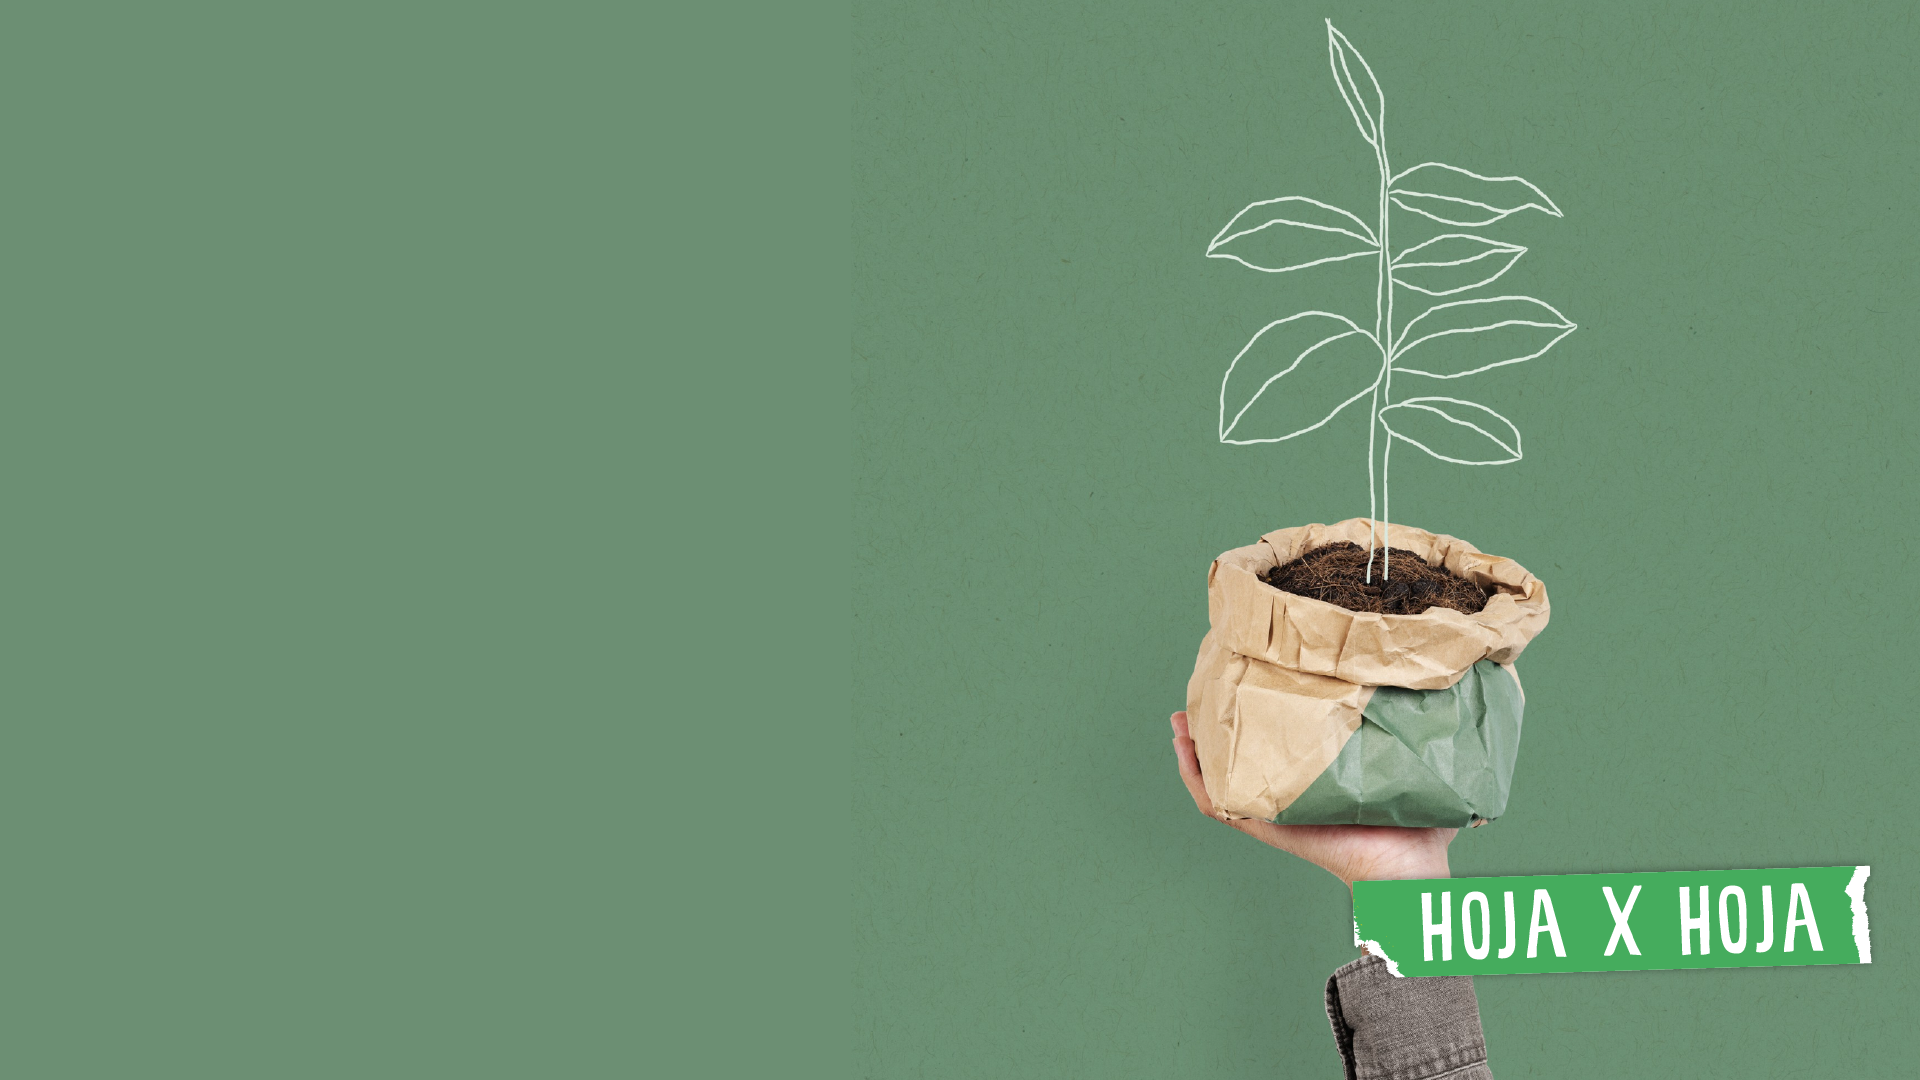
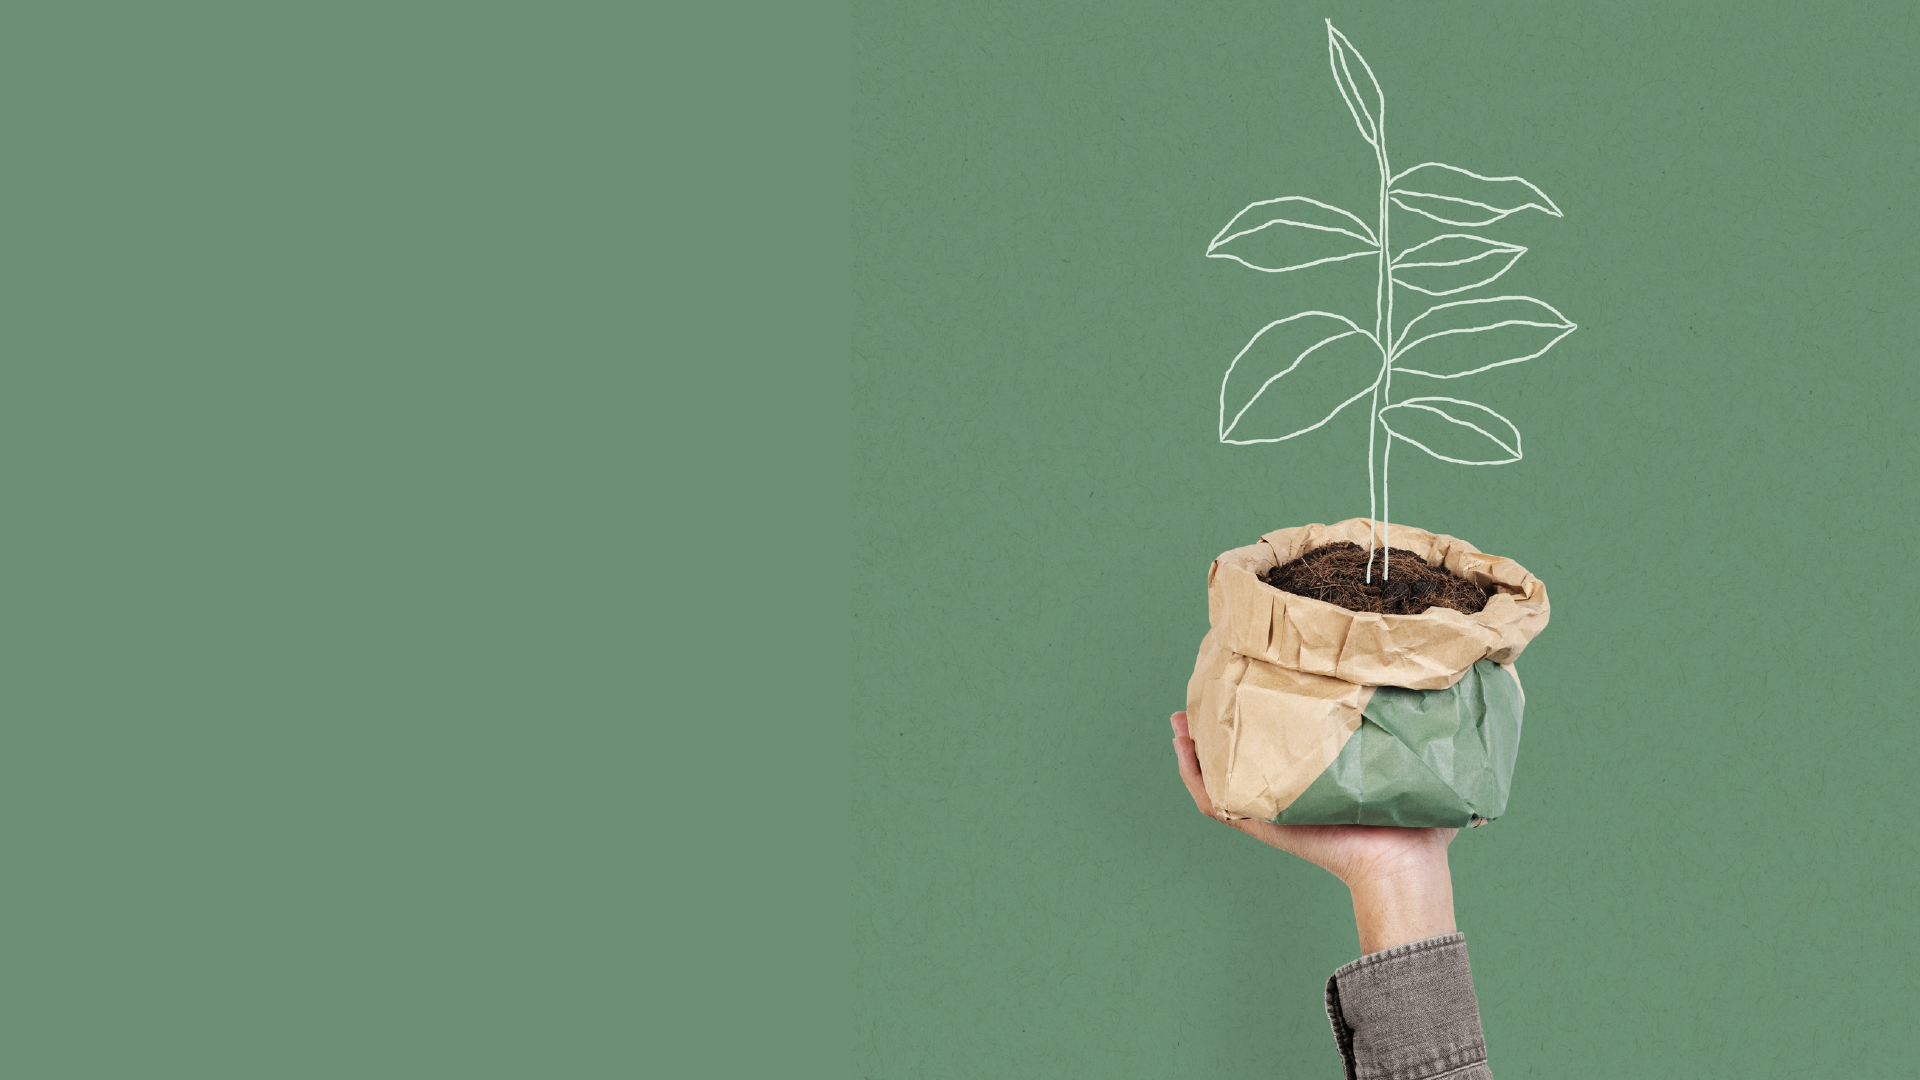
hero responsive campaña

Changed region(s): [[0.6875, 0.7944, 1.0, 0.9167]]

diff --git a/index.html b/index.html
@@ -77,10 +77,11 @@
     <!-- HERO -->
       <section id="hero">
         <div class="hero">
-          <h3 class="animate__animated animate__fadeIn">Campaña</h3>
-          <h1 id="hero-naturaleza" class="animate__animated animate__fadeIn">Hoja x Hoja</h1>
+          <h3 class="animate__animated animate__fadeIn">¡Gran colecta de papeles en desuso!</h3>
+          <!-- <h1 id="hero-naturaleza" class="animate__animated animate__fadeIn">Hoja x Hoja</h1> -->
+           <div class="hero-logo-campain"><img src="./img/hero/logocampain.webp" alt="logo-campaña"></div>
           <p class="animate__animated animate__fadeIn">Citromax lidera la iniciativa conjunta de las empresas de Altercity que comparten valores de sostenibilidad, invitando a todos sus colaboradores a sumarse a la propuesta Hoja x Hoja de la  <span style="color:#004740">&nbsp Fundación Vida Sostenida </span></p>
-          <a href=""><button type="button" class="btn btn-success btn-lg animate__animated animate__pulse">Más info</button></a>
+          <a href="https://www.instagram.com/p/DDh1-XXuKVK/" target="_blank"><button type="button" class="btn btn-success btn-lg animate__animated animate__pulse">Más info</button></a>
         </div>
       </section>
     <!-- END HERO -->

diff --git a/css/secciones/hero.css b/css/secciones/hero.css
@@ -3,7 +3,7 @@
     background-image: url(../../img/hero/hero-hojaxhoja.webp);
     background-size: cover;
     width: 100%;
-    height: 80vh;
+    height: auto;
     display: flex;
     flex-direction: column;
     justify-content: flex-start;
@@ -12,6 +12,12 @@
     font-family: "Patrick Hand SC", sans-serif;
     font-weight: 400;
     font-style: normal;
+    padding-bottom: 10%;
+}
+
+.hero-logo-campain img{
+    width: 400px;
+    padding-bottom: 20px;
 
 }
 
@@ -19,9 +25,9 @@
 .hero h3{
     font-weight: 400;
     font-style: normal;
-    color: #004740;
+    color: #ffffff;
     padding-top: 8%;
-    font-size: 5.5rem;
+    font-size: 2.5rem;
 }
 
 .hero h1{
@@ -34,6 +40,7 @@
     font-size: 1.5rem;
     color: #E1E1DE;
     max-width: 35%;
+    min-width: 300px;
 }
 
 
@@ -115,3 +122,14 @@
 
 
 /* END VIDEO HERO */
+
+
+
+
+@media only screen and (max-width: 530px) {
+    .hero-logo-campain img{
+        width: 300px;
+        }
+}
+
+
